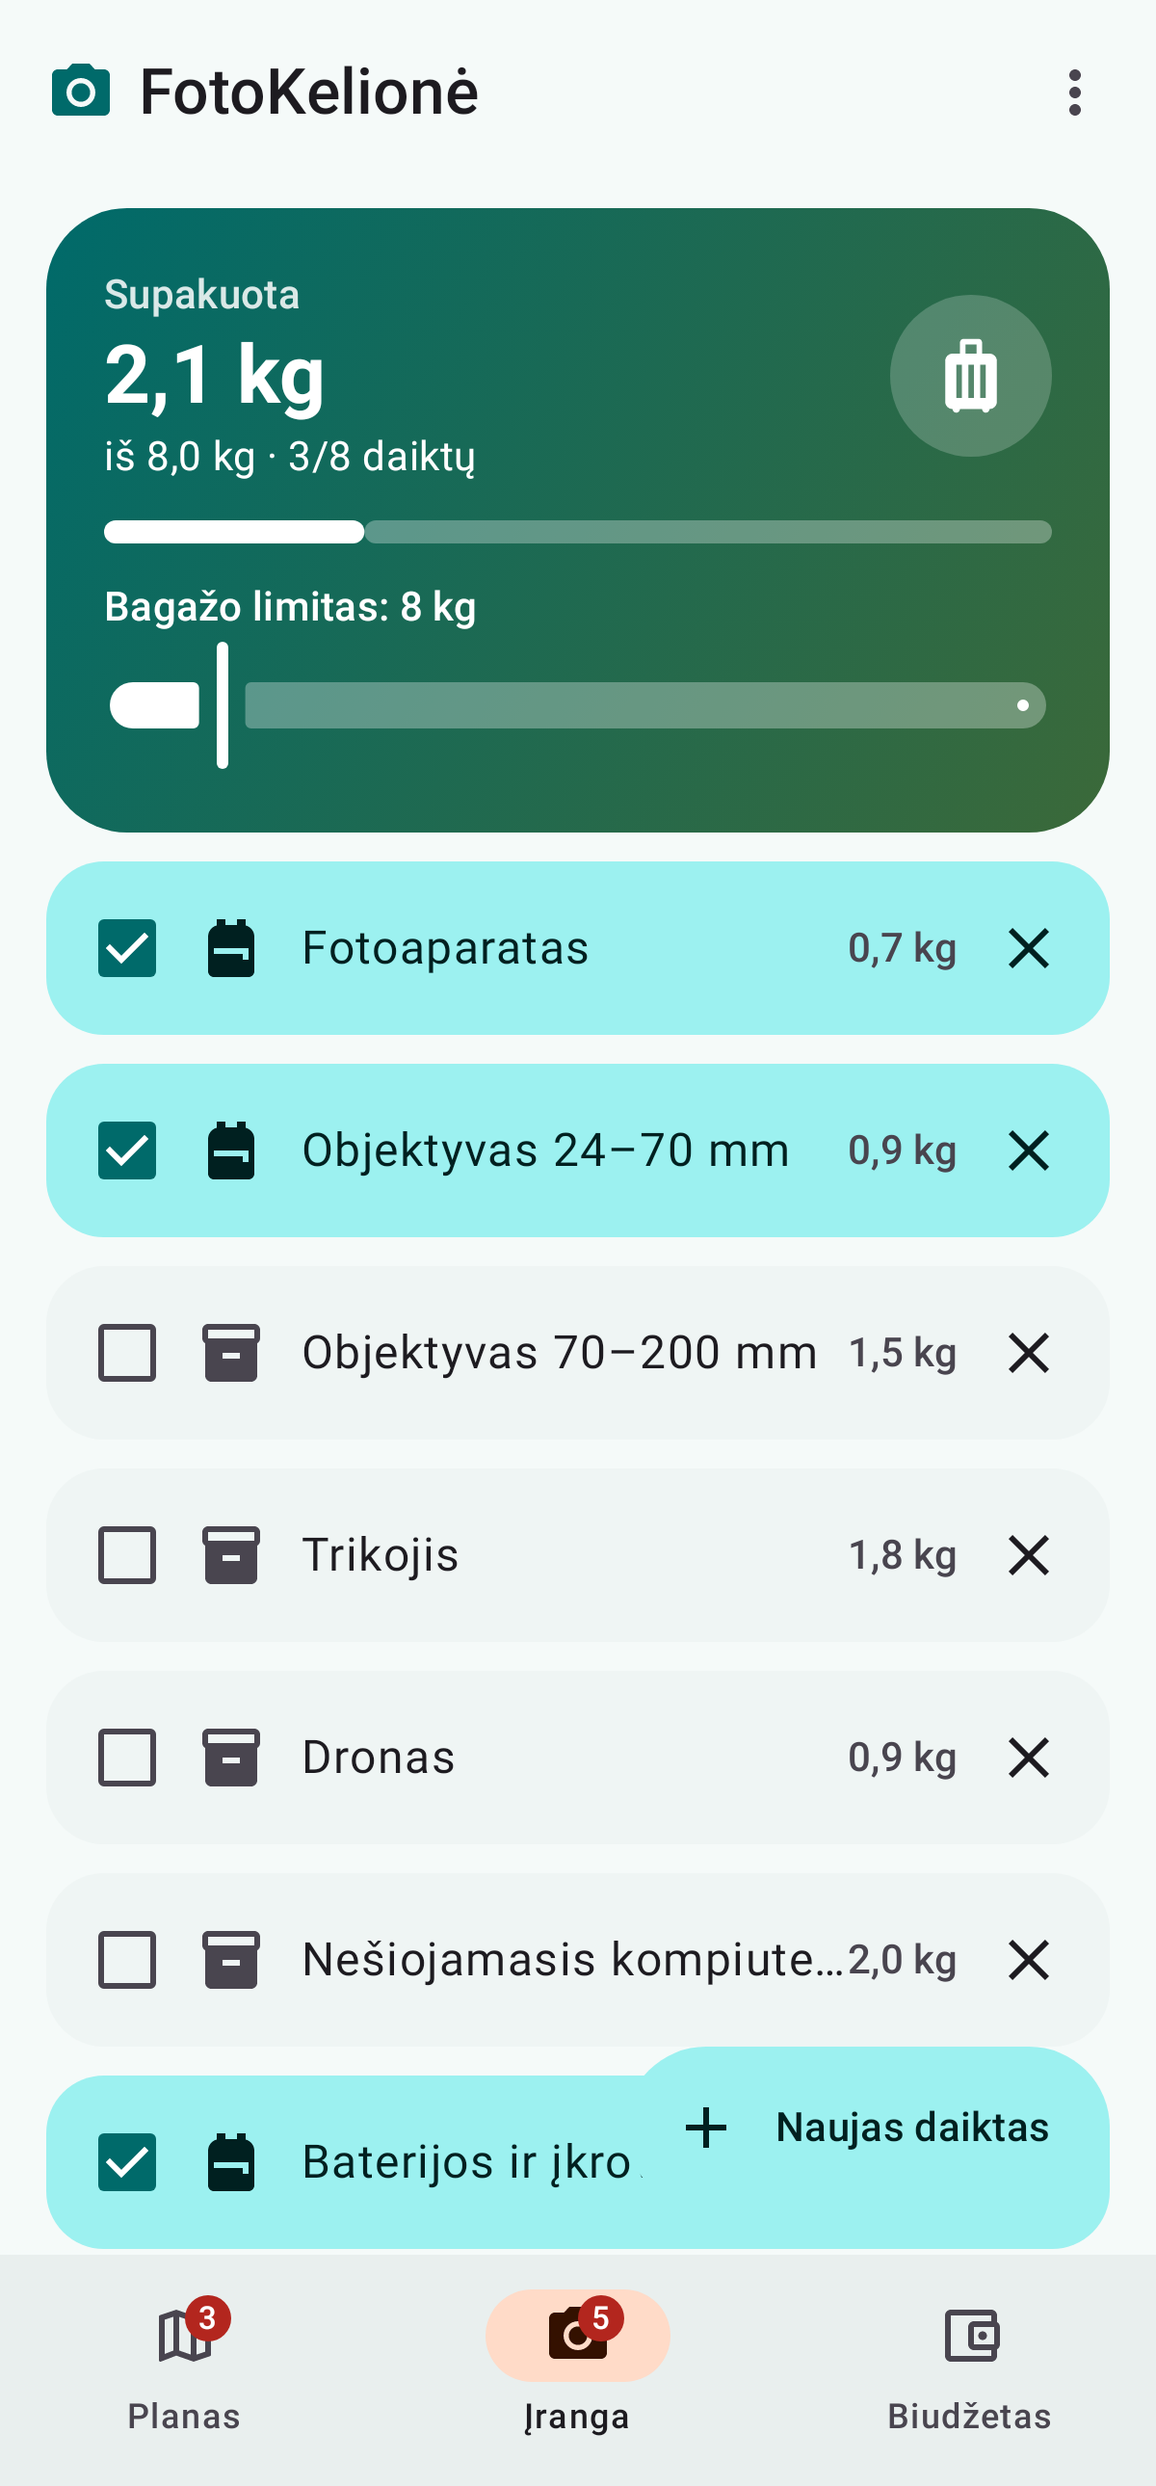
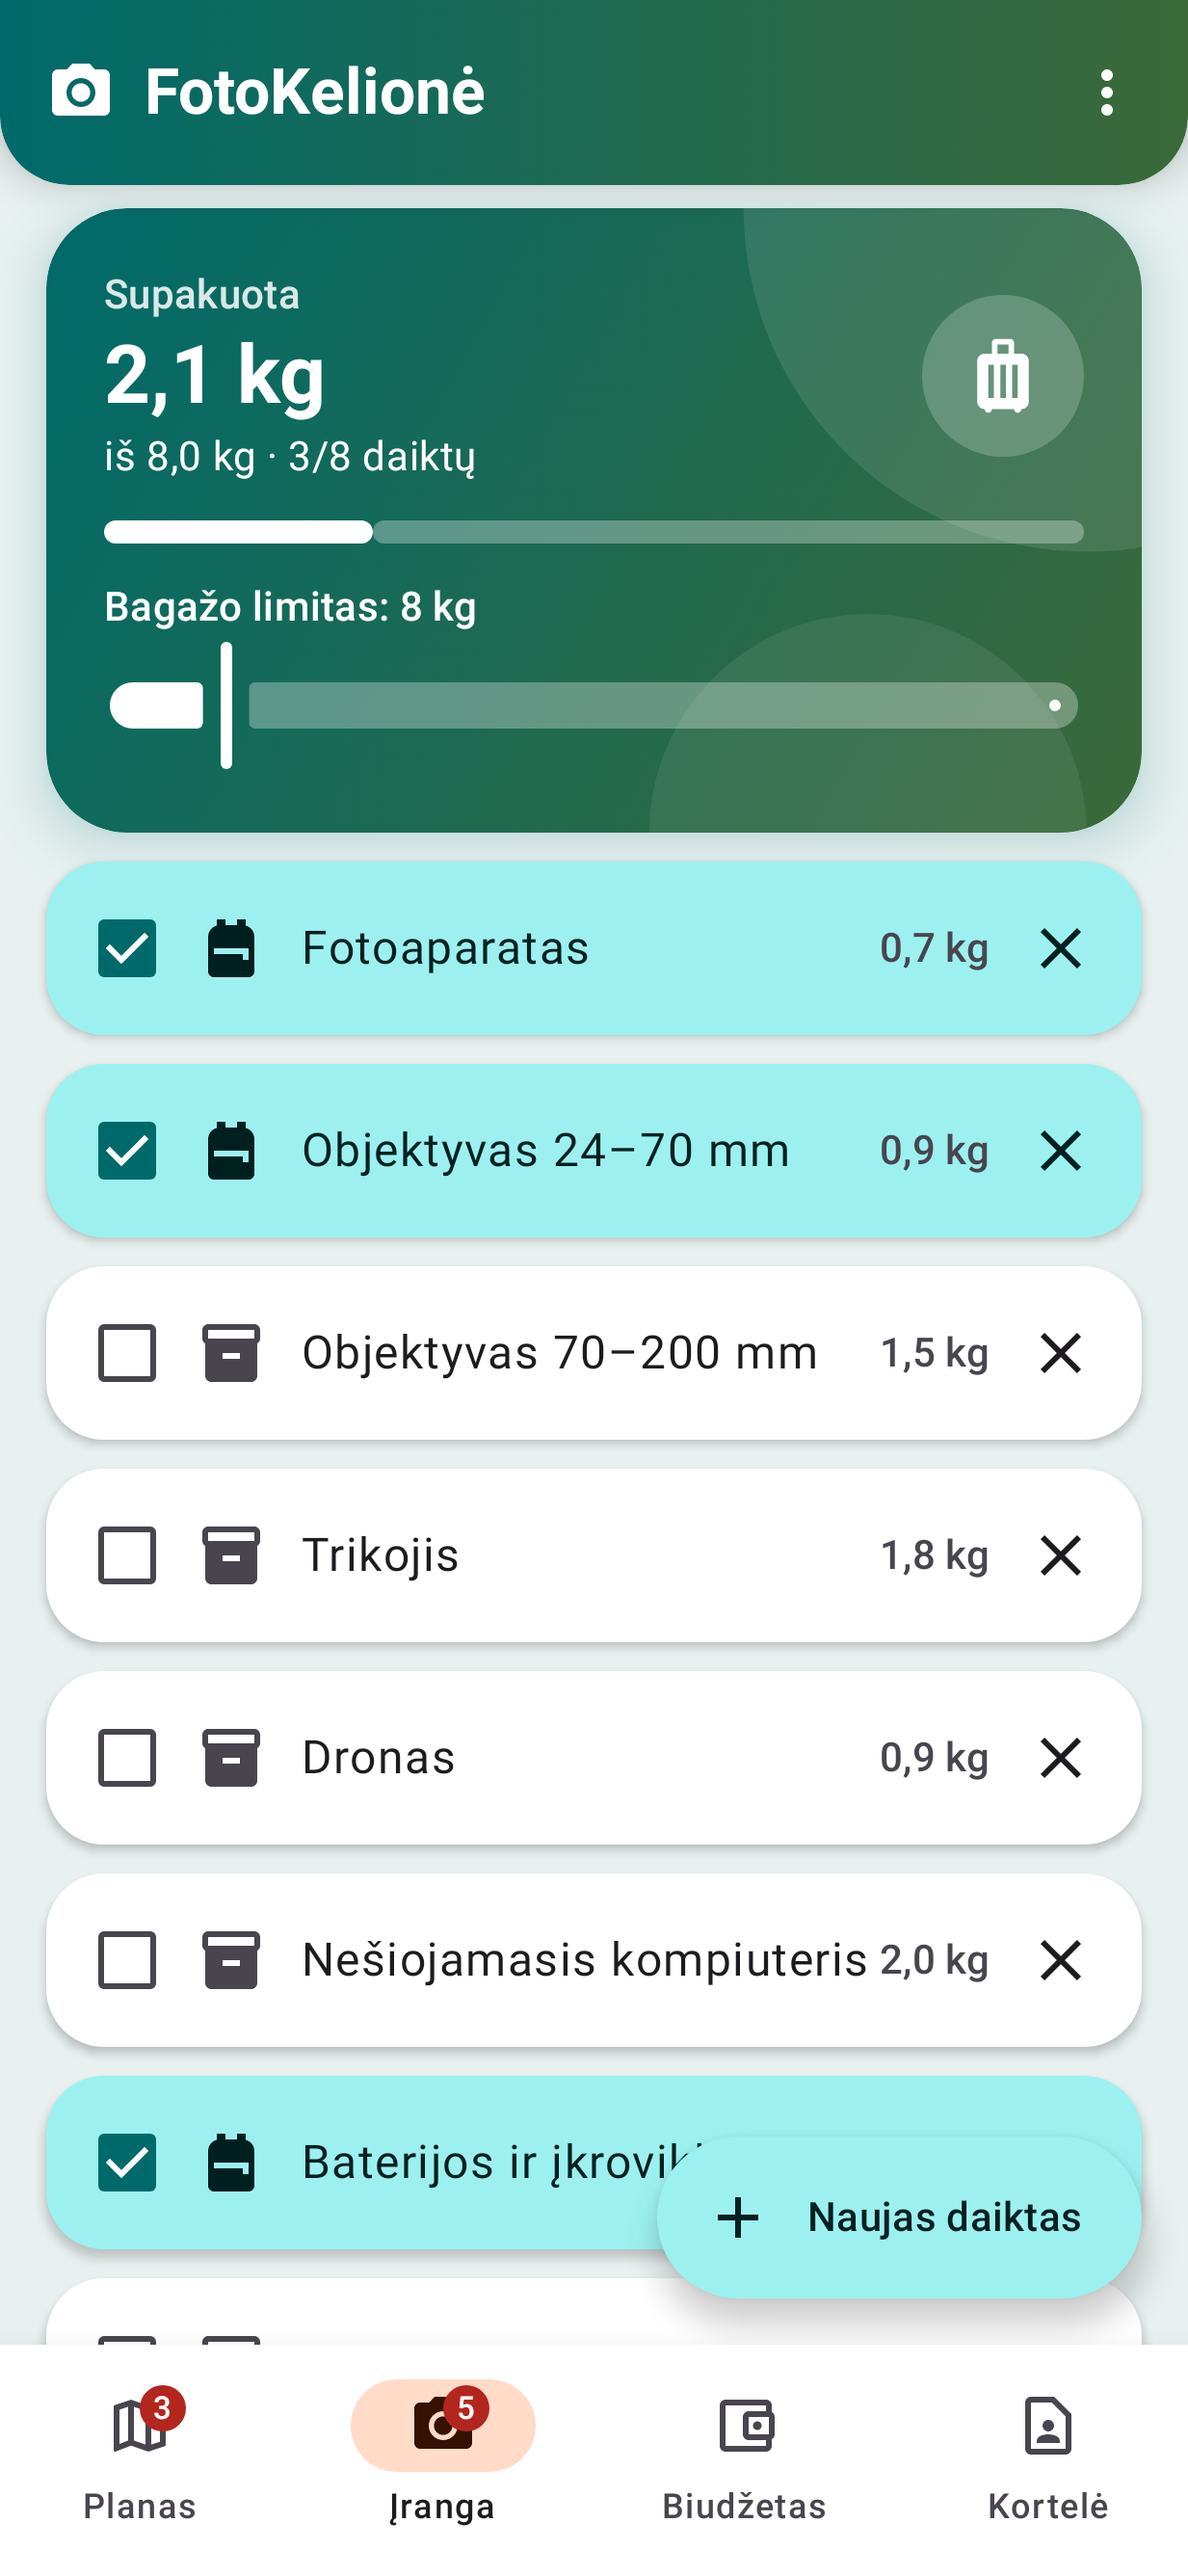
Give the app more depth: gradient top bar, white elevated cards, decorated hero cards
Claude-Session: https://claude.ai/code/session_017tP8B8jomvVKwv1rpvcTau

diff --git a/app/src/main/java/lt/vilniustech/fotokelione/ui/FotoKelioneApp.kt b/app/src/main/java/lt/vilniustech/fotokelione/ui/FotoKelioneApp.kt
@@ -56,6 +56,13 @@ import androidx.compose.ui.res.stringResource
 import androidx.compose.ui.semantics.contentDescription
 import androidx.compose.ui.semantics.semantics
 import androidx.compose.ui.unit.dp
+import androidx.compose.foundation.background
+import androidx.compose.foundation.shape.RoundedCornerShape
+import androidx.compose.material3.TopAppBarDefaults
+import androidx.compose.ui.draw.shadow
+import androidx.compose.ui.graphics.Brush
+import androidx.compose.ui.graphics.Color
+import androidx.compose.ui.text.font.FontWeight
 import androidx.annotation.StringRes
 import androidx.appcompat.app.AppCompatDelegate
 import androidx.core.os.LocaleListCompat
@@ -167,18 +174,28 @@ fun FotoKelioneApp(
     Scaffold(
         // ---------- TOP APP BAR ----------
         topBar = {
+            // Juosta su spalvotu gradientu ir užapvalintais apatiniais kampais
+            val colors = MaterialTheme.colorScheme
             TopAppBar(
                 title = {
                     Row(verticalAlignment = Alignment.CenterVertically) {
-                        Icon(
-                            Icons.Filled.PhotoCamera,
-                            contentDescription = null,
-                            tint = MaterialTheme.colorScheme.primary,
-                        )
-                        Spacer(Modifier.width(8.dp))
-                        Text(stringResource(R.string.app_name))
+                        Icon(Icons.Filled.PhotoCamera, contentDescription = null)
+                        Spacer(Modifier.width(10.dp))
+                        Text(stringResource(R.string.app_name), fontWeight = FontWeight.Bold)
                     }
                 },
+                colors = TopAppBarDefaults.topAppBarColors(
+                    containerColor = Color.Transparent, // fonas – gradientas žemiau (modifier)
+                    titleContentColor = Color.White,
+                    navigationIconContentColor = Color.White,
+                    actionIconContentColor = Color.White,
+                ),
+                modifier = Modifier
+                    .shadow(8.dp, RoundedCornerShape(bottomStart = 24.dp, bottomEnd = 24.dp))
+                    .background(
+                        Brush.horizontalGradient(listOf(colors.primary, colors.tertiary)),
+                        RoundedCornerShape(bottomStart = 24.dp, bottomEnd = 24.dp),
+                    ),
                 actions = {
                     IconButton(onClick = { menuExpanded = true }) {
                         Icon(Icons.Filled.MoreVert, contentDescription = stringResource(R.string.more_options))
@@ -209,7 +226,7 @@ fun FotoKelioneApp(
         // ---------- APATINĖ JUOSTA (tik telefone) ----------
         bottomBar = {
             if (!useRail) {
-                NavigationBar {
+                NavigationBar(modifier = Modifier.shadow(12.dp)) {
                     Destination.entries.forEach { destination ->
                         val selected = currentRoute == destination.route
                         NavigationBarItem(

diff --git a/app/src/main/java/lt/vilniustech/fotokelione/ui/components/Components.kt b/app/src/main/java/lt/vilniustech/fotokelione/ui/components/Components.kt
@@ -35,6 +35,9 @@ import androidx.compose.ui.graphics.Color
 import androidx.compose.ui.graphics.vector.ImageVector
 import androidx.compose.ui.unit.Dp
 import androidx.compose.ui.unit.dp
+import androidx.compose.ui.draw.drawBehind
+import androidx.compose.ui.draw.shadow
+import androidx.compose.ui.geometry.Offset
 import lt.vilniustech.fotokelione.Category
 import lt.vilniustech.fotokelione.TimeOfDay
 
@@ -65,15 +68,24 @@ fun HeroCard(
     endColor: Color = MaterialTheme.colorScheme.tertiary,
     content: @Composable ColumnScope.() -> Unit,
 ) {
+    val shape = MaterialTheme.shapes.large
     Card(
-        modifier = modifier.fillMaxWidth(),
-        shape = MaterialTheme.shapes.large,
+        modifier = modifier
+            .fillMaxWidth()
+            // spalvotas šešėlis po kortele – suteikia gylio
+            .shadow(elevation = 12.dp, shape = shape, spotColor = startColor, ambientColor = startColor),
+        shape = shape,
         colors = CardDefaults.cardColors(containerColor = Color.Transparent, contentColor = Color.White),
     ) {
         Column(
             modifier = Modifier
                 .fillMaxWidth()
                 .background(Brush.linearGradient(listOf(startColor, endColor)))
+                // dekoratyvūs permatomi apskritimai fone (piešiami už turinio)
+                .drawBehind {
+                    drawCircle(Color.White.copy(alpha = 0.10f), radius = size.height * 0.55f, center = Offset(size.width * 0.95f, 0f))
+                    drawCircle(Color.White.copy(alpha = 0.07f), radius = size.height * 0.35f, center = Offset(size.width * 0.75f, size.height))
+                }
                 .padding(20.dp),
             content = content,
         )
@@ -91,11 +103,18 @@ fun SectionCard(
     Card(
         modifier = modifier.fillMaxWidth(),
         colors = CardDefaults.cardColors(containerColor = MaterialTheme.colorScheme.surfaceContainerLow),
+        elevation = CardDefaults.cardElevation(defaultElevation = 3.dp), // nedidelis šešėlis
     ) {
         Column(Modifier.padding(16.dp)) {
             Row(verticalAlignment = Alignment.CenterVertically) {
-                Icon(icon, contentDescription = null, tint = MaterialTheme.colorScheme.primary)
-                Spacer(Modifier.width(8.dp))
+                // ikona spalvotame apskritime
+                IconCircle(
+                    icon = icon,
+                    background = MaterialTheme.colorScheme.primaryContainer,
+                    tint = MaterialTheme.colorScheme.onPrimaryContainer,
+                    size = 36.dp,
+                )
+                Spacer(Modifier.width(12.dp))
                 Text(title, style = MaterialTheme.typography.titleMedium)
             }
             Spacer(Modifier.height(12.dp))

diff --git a/app/src/main/java/lt/vilniustech/fotokelione/MainActivity.kt b/app/src/main/java/lt/vilniustech/fotokelione/MainActivity.kt
@@ -3,6 +3,7 @@ package lt.vilniustech.fotokelione // paketas – „aplankas“, kuriam priklau
 import android.os.Bundle
 import androidx.appcompat.app.AppCompatActivity
 import androidx.activity.compose.setContent
+import androidx.activity.SystemBarStyle
 import androidx.activity.enableEdgeToEdge
 import androidx.compose.material3.windowsizeclass.ExperimentalMaterial3WindowSizeClassApi
 import androidx.compose.material3.windowsizeclass.calculateWindowSizeClass
@@ -24,7 +25,8 @@ class MainActivity : AppCompatActivity() { // AppCompatActivity – Android ekra
     @OptIn(ExperimentalMaterial3WindowSizeClassApi::class)
     override fun onCreate(savedInstanceState: Bundle?) { // onCreate – kviečiama, kai ekranas sukuriamas
         super.onCreate(savedInstanceState) // būtinai iškviečiame tėvinės klasės onCreate
-        enableEdgeToEdge() // programėlė užima visą ekraną (ir po laikrodžio / baterijos juosta)
+        // programėlė užima visą ekraną; laikrodis ir baterija – balti (ant spalvotos viršutinės juostos)
+        enableEdgeToEdge(statusBarStyle = SystemBarStyle.dark(android.graphics.Color.TRANSPARENT))
         setContent { // viskas šių skliaustų viduje – Compose UI
             FotoKelioneTheme { // mūsų tema (spalvos, šriftai) – žr. ui/theme/Theme.kt
                 // Paleidžiame visą programėlę ir perduodame ekrano dydžio klasę

diff --git a/app/src/main/java/lt/vilniustech/fotokelione/ui/theme/Theme.kt b/app/src/main/java/lt/vilniustech/fotokelione/ui/theme/Theme.kt
@@ -40,11 +40,11 @@ private val LightColors = lightColorScheme(
     onTertiary = Color.White,
     tertiaryContainer = Color(0xFFBCF0B4),
     onTertiaryContainer = Color(0xFF002204),
-    background = Color(0xFFF5FAF9),
-    surface = Color(0xFFF5FAF9),
-    surfaceContainerLow = Color(0xFFEFF5F4),
-    surfaceContainer = Color(0xFFE9EFEE),
-    surfaceContainerHigh = Color(0xFFE3E9E8),
+    background = Color(0xFFE8F1F0),          // žalsvas fonas – baltos kortelės ant jo „iškyla“
+    surface = Color(0xFFE8F1F0),
+    surfaceContainerLow = Color(0xFFFFFFFF),  // kortelės – baltos
+    surfaceContainer = Color(0xFFFFFFFF),     // apatinė juosta – balta
+    surfaceContainerHigh = Color(0xFFDCE8E6), // atlikta vieta, tuščias sąrašas
 )
 
 private val DarkColors = darkColorScheme(
@@ -66,6 +66,7 @@ private val DarkColors = darkColorScheme(
 private val AppTypography = Typography().let { base ->
     base.copy(
         headlineMedium = base.headlineMedium.copy(fontWeight = FontWeight.Bold),
+        headlineSmall = base.headlineSmall.copy(fontWeight = FontWeight.Bold),
         titleLarge = base.titleLarge.copy(fontWeight = FontWeight.SemiBold),
         titleMedium = base.titleMedium.copy(fontWeight = FontWeight.SemiBold),
     )

diff --git a/app/src/main/java/lt/vilniustech/fotokelione/ui/screens/CardScreen.kt b/app/src/main/java/lt/vilniustech/fotokelione/ui/screens/CardScreen.kt
@@ -412,7 +412,10 @@ private fun PortfolioCard(item: PortfolioItem) {
     var attempt by remember { mutableIntStateOf(0) }  // keičiant šį skaičių nuotrauka kraunama iš naujo
     var failed by remember { mutableStateOf(false) }  // ar paskutinis bandymas nepavyko
 
-    Card(colors = CardDefaults.cardColors(containerColor = MaterialTheme.colorScheme.surface)) {
+    Card(
+        colors = CardDefaults.cardColors(containerColor = MaterialTheme.colorScheme.surfaceContainerLow),
+        elevation = CardDefaults.cardElevation(defaultElevation = 4.dp),
+    ) {
         Box {
             // key(attempt) – pasikeitus attempt, AsyncImage sukuriamas iš naujo ir siunčia vėl
             key(attempt) {

diff --git a/app/src/main/java/lt/vilniustech/fotokelione/ui/screens/PlanScreen.kt b/app/src/main/java/lt/vilniustech/fotokelione/ui/screens/PlanScreen.kt
@@ -280,6 +280,8 @@ private fun PlaceCard(place: Place, onToggleDone: () -> Unit, onDelete: () -> Un
             // atlikta vieta – šiek tiek tamsesnis fonas
             containerColor = if (place.done) colors.surfaceContainerHigh else colors.surfaceContainerLow,
         ),
+        // šešėlis tik nebaigtoms vietoms – atliktos atrodo „įspaustos“
+        elevation = CardDefaults.cardElevation(defaultElevation = if (place.done) 0.dp else 3.dp),
         modifier = Modifier
             .fillMaxWidth()
             .animateContentSize(), // ANIMACIJA: sklandus dydžio pokytis

diff --git a/app/src/main/java/lt/vilniustech/fotokelione/ui/screens/GearScreen.kt b/app/src/main/java/lt/vilniustech/fotokelione/ui/screens/GearScreen.kt
@@ -242,6 +242,7 @@ private fun GearCard(item: GearItem, onToggle: () -> Unit, onDelete: () -> Unit)
             // supakuotas daiktas – žalsvas fonas, nesupakuotas – pilkas
             containerColor = if (item.packed) colors.primaryContainer else colors.surfaceContainerLow,
         ),
+        elevation = CardDefaults.cardElevation(defaultElevation = 2.dp), // nedidelis šešėlis
         modifier = Modifier.fillMaxWidth(),
     ) {
         Row(
